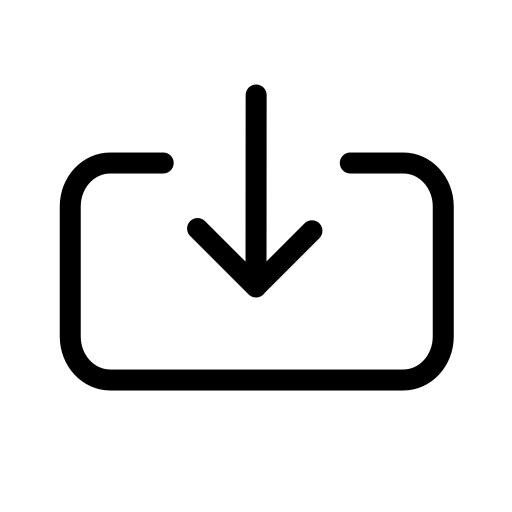
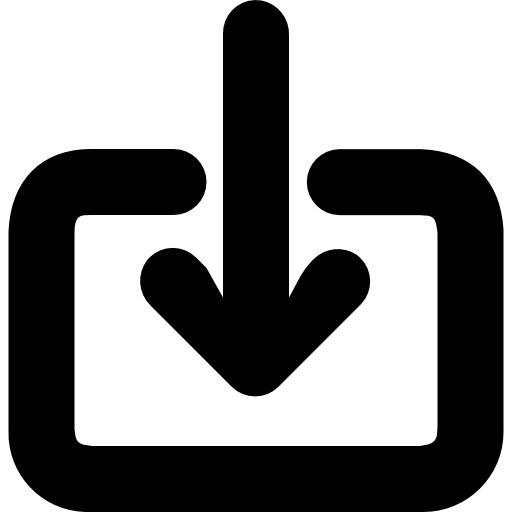
Import, Export

diff --git a/src/main/java/Dictionary/Dictionary/mainController.java b/src/main/java/Dictionary/Dictionary/mainController.java
@@ -18,6 +18,7 @@ import Implement.Input.AddFromFile;
 import Implement.Input.SingleWord.Definition;
 import Implement.Input.SingleWord.Meaning;
 import Implement.Input.SingleWord.Phonetic;
+import Implement.Output.ExportToFile;
 import Implement.WordFormatter;
 import Implement.WordStorage.DictionaryMap;
 import Implement.WordStorage.Trie.Trie;
@@ -92,6 +93,8 @@ public class mainController extends baseMenu implements Initializable {
   private ScrollPane scrollMeaning = new ScrollPane();
   @FXML
   private Button importBtn = new Button();
+  @FXML
+  private Button exportBtn = new Button();
   private String currentMenu = "Search";
   private String currentWord;
   final String IMGPath = "src/main/resources/Images/";
@@ -148,7 +151,8 @@ public class mainController extends baseMenu implements Initializable {
     setStyle(imgSpeaker, "imageViewStyle"); imgAdd.setVisible(false);
     imgSearch.toFront(); imgBookmark.toFront(); imgHistory.toFront(); imgAPI.toFront();
     setEditor(false); transition.setNode(imgToggle);
-    importBtn.setGraphic(getImage("import", 15,15));
+    importBtn.setGraphic(getImage("import", 23,23));
+    exportBtn.setGraphic(getImage("export", 23,23));
   }
 
   void setMeaningOfWord(String mean) {
@@ -560,9 +564,47 @@ public class mainController extends baseMenu implements Initializable {
 
   public void importFile(ActionEvent e) {
     FileChooser fileChooser = new FileChooser();
-    fileChooser.setTitle("Import");
+    fileChooser.setTitle("Select file to import from...");
+    File initLocation = new File("src/main/resources");
+    fileChooser.setInitialDirectory(initLocation);
     Stage stage = (Stage) imgAdd.getScene().getWindow();
     File selected = fileChooser.showOpenDialog(stage);
+    if (selected == null) {
+      return;
+    }
     AddFromFile.add(selected);
+    infoControl.setPrompt("Đã nhập file vào dữ liệu từ điển");
+    Stage stage1 = new Stage();
+    stage1.setScene(infoScene);
+    stage1.setTitle("Thông báo");
+    stage1
+        .getIcons()
+        .add(
+            new Image(
+                new File("src/main/resources/Images/infoIcon.png").toURI().toString()));
+    stage1.showAndWait();
+  }
+
+  public void exportFile(ActionEvent e) {
+    FileChooser fileChooser = new FileChooser();
+    fileChooser.setTitle("Select file to export to...");
+    File initLocation = new File("src/main/resources");
+    fileChooser.setInitialDirectory(initLocation);
+    Stage stage = (Stage) imgAdd.getScene().getWindow();
+    File selected = fileChooser.showOpenDialog(stage);
+    if (selected == null) {
+      return;
+    }
+    ExportToFile.export(selected);
+    infoControl.setPrompt("Đã xuất dữ liệu từ điển ra file");
+    Stage stage1 = new Stage();
+    stage1.setScene(infoScene);
+    stage1.setTitle("Thông báo");
+    stage1
+        .getIcons()
+        .add(
+            new Image(
+                new File("src/main/resources/Images/infoIcon.png").toURI().toString()));
+    stage1.showAndWait();
   }
 }

diff --git a/src/main/java/Implement/Output/ExportToFile.java b/src/main/java/Implement/Output/ExportToFile.java
@@ -8,11 +8,13 @@ import java.io.File;
 import java.io.FileWriter;
 
 public class ExportToFile {
-  public void export() {
+  public static void export(File file) {
     try {
-      String Path = "src/main/resources/dictionaries.txt";
-      File file = new File(Path);
-      file.createNewFile();
+      if (file == null) {
+        String Path = "src/main/resources/dictionaries.txt";
+        file = new File(Path);
+        file.createNewFile();
+      }
       FileWriter writer = new FileWriter(file);
       BufferedWriter bufferedWriter = new BufferedWriter(writer);
       String[] word = DictionaryMap.getKey();
